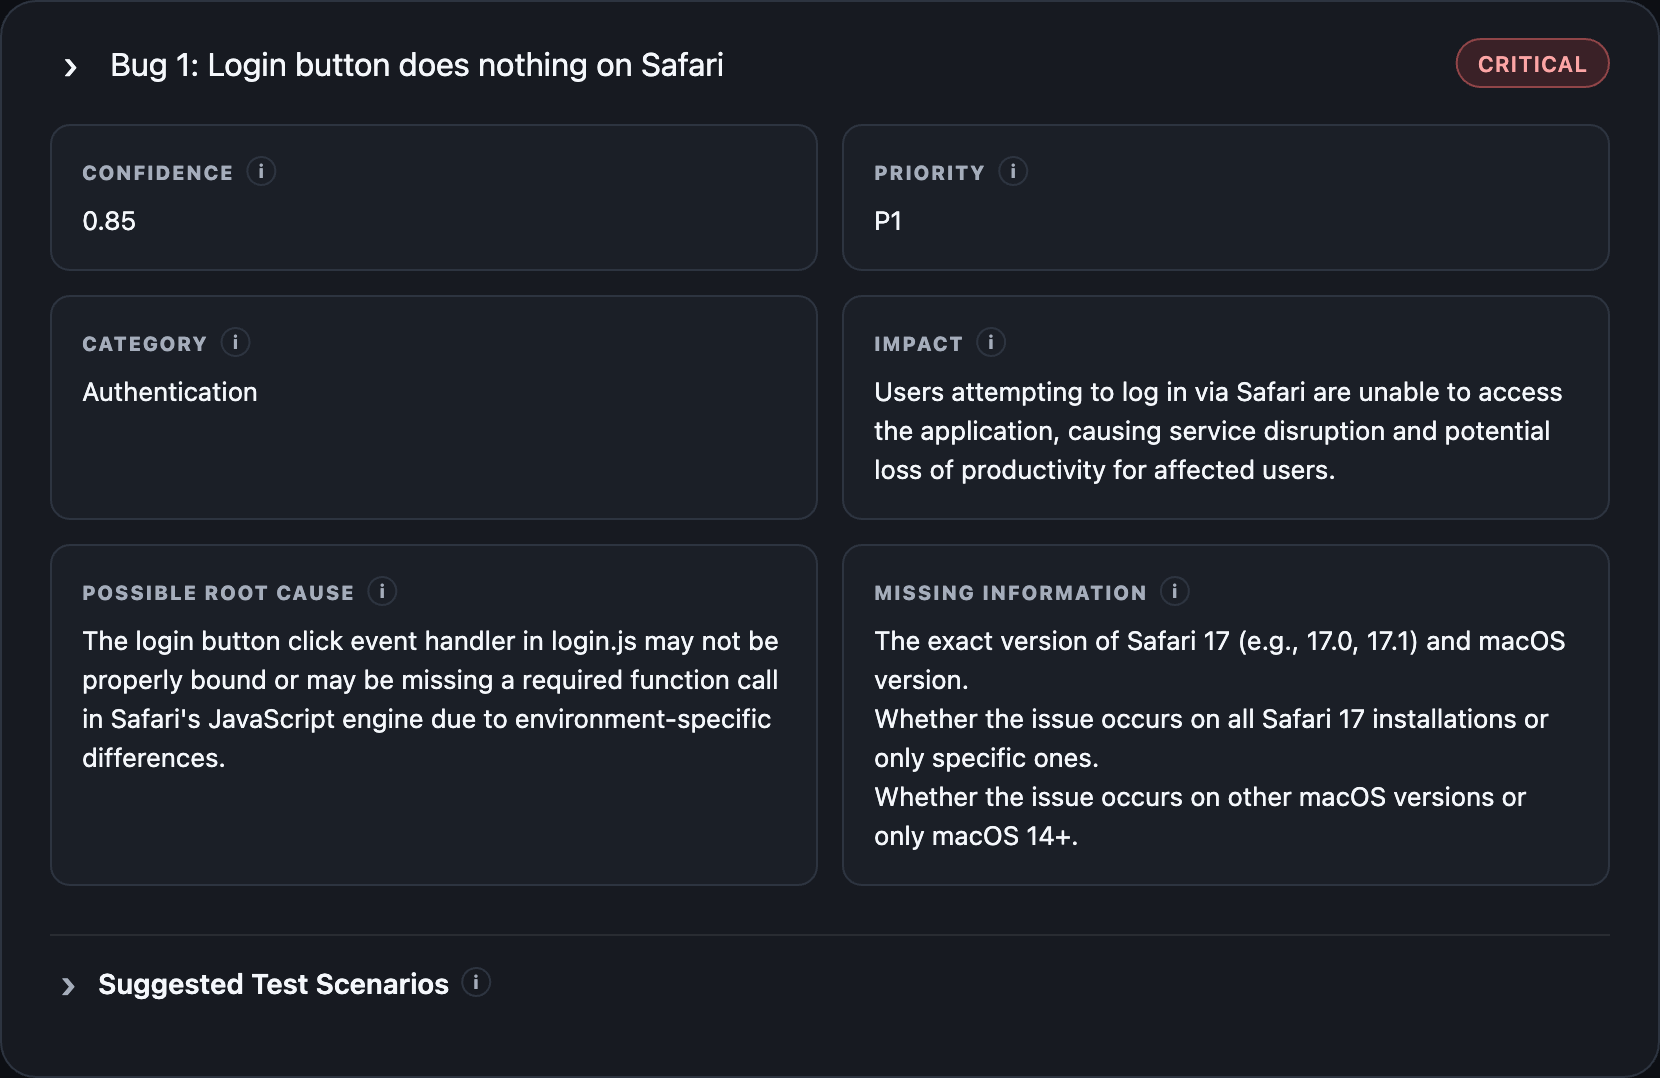
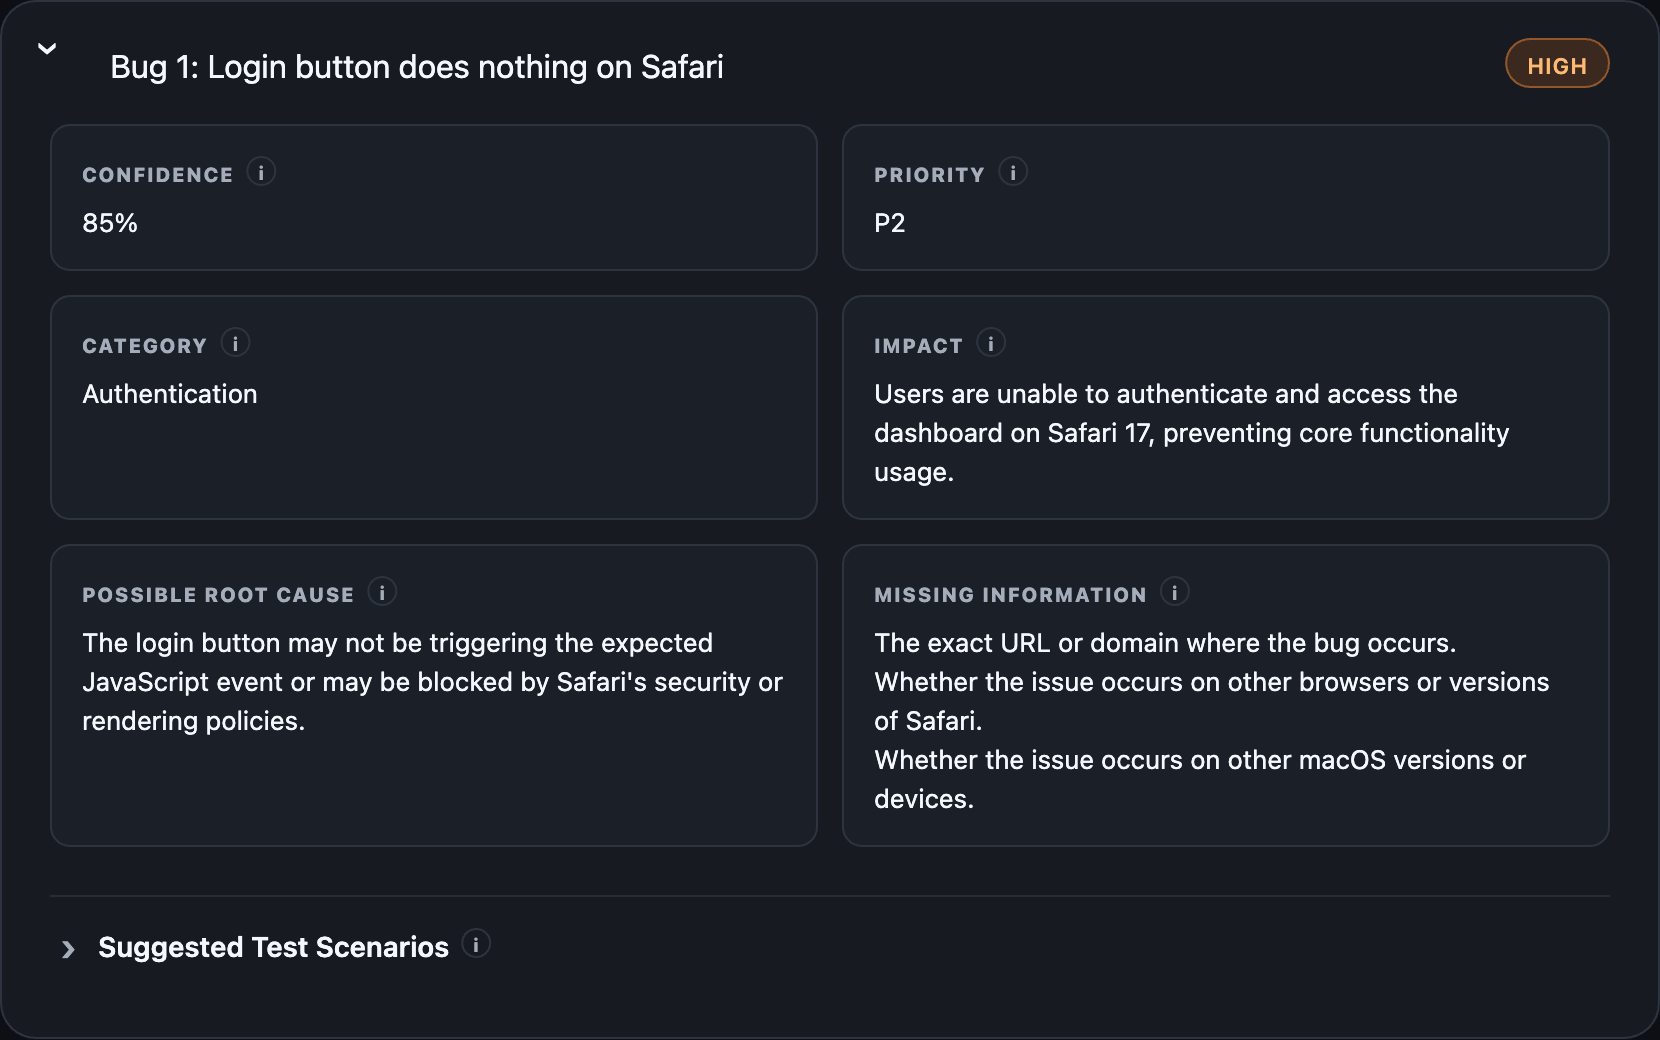
Show confidence as a percentage on batch bug cards
The single bug badge already showed 85%, but each batch card showed the
raw 0.85. Both now use one formatter, matching the README and the Excel
report. The README screenshot of a bug card is retaken to match.

diff --git a/app/static/js/app.js b/app/static/js/app.js
@@ -1138,7 +1138,17 @@ function formatError(error) {
     return String(error);
 }
 
+// Confidence arrives as 0.0–1.0 and is shown as a percentage, as in
+// the README and the Excel report.
+function formatConfidence(value) {
+    return typeof value === "number" ? `${Math.round(value * 100)}%` : value;
+}
+
 function formatAnalysisValue(key, value) {
+    if (key === "confidence") {
+        return formatConfidence(value) ?? "—";
+    }
+
     if (key === "missing_information" && Array.isArray(value) && value.length === 0) {
         return "No missing information identified.";
     }
@@ -1238,12 +1248,7 @@ function renderAnalysis(data) {
         const confidenceBadge = document.createElement("span");
         confidenceBadge.className = "confidence-badge";
 
-        const confidenceValue =
-            typeof confidence === "number"
-                ? `${Math.round(confidence * 100)}%`
-                : confidence;
-
-        confidenceBadge.textContent = `Confidence: ${confidenceValue}`;
+        confidenceBadge.textContent = `Confidence: ${formatConfidence(confidence)}`;
 
         confidenceBadge.setAttribute(
             "data-tooltip",
